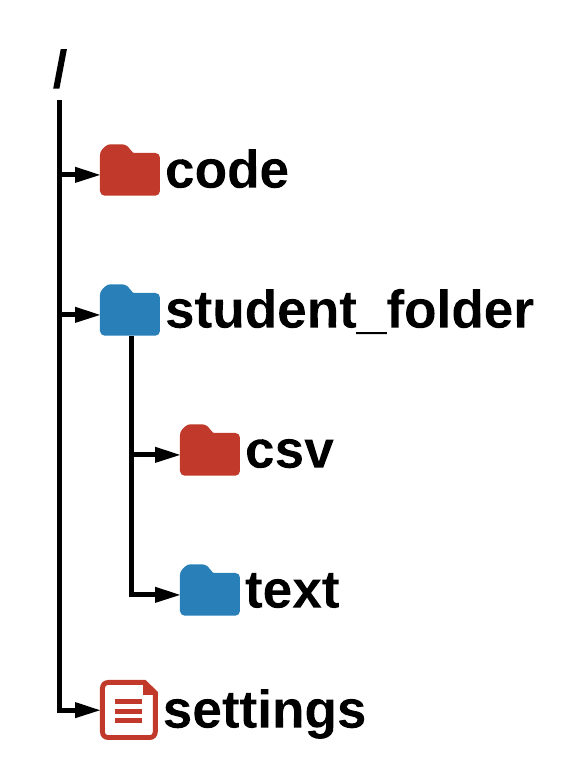
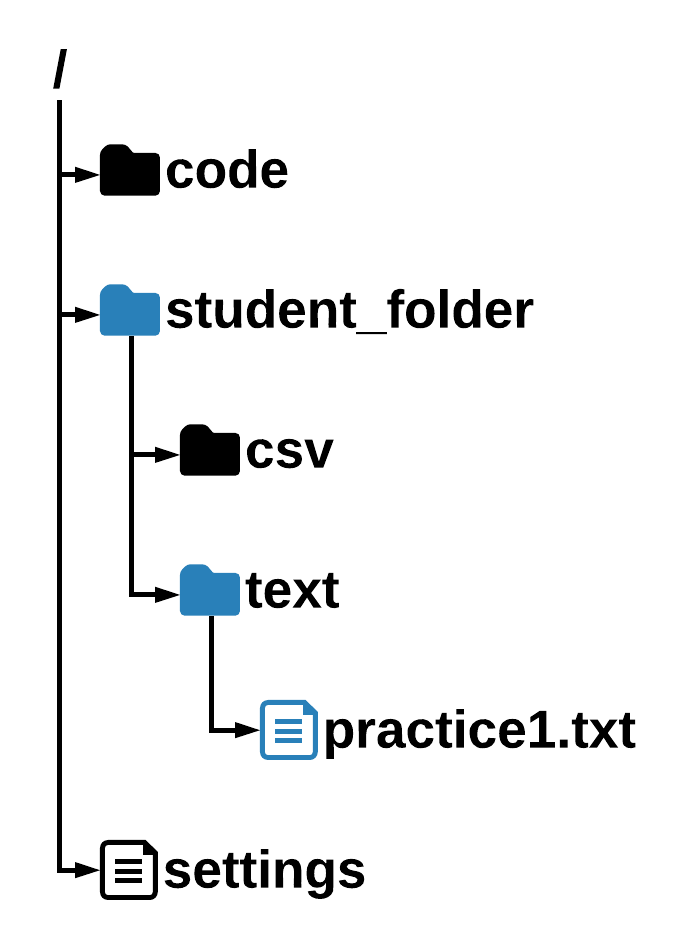
add navigating the file system to the first lesson on files

Changed region(s): [[0.0621, 0.0615, 0.931, 0.9846]]

diff --git a/.guides/content/Navigating-the-File-System-8fe7.md b/.guides/content/Navigating-the-File-System-8fe7.md
@@ -1,12 +1,18 @@
 ## Locating Student Files
 
-In this unit, you will see a directory tree on the left. Inside `student_folder` are two more folders, `csv` and `text`. You will need to know how to access these folders and subfolders with Python code. The location of a file is called its path. You will be working with text files first. So the path for all of these activities is the `text` folder, which inside another folder called `student_folder`. Inside `text` is a file called `practice1.txt`. This is the file you want to access.
+This unit is all about working with files on a computer. The firs step is to open the desired file. That means navigating the file system to find the file in question. The open command requires the location (path) of the file and the filename. The file is called `practice1.txt`. It is located in the `text` folder, which is inside the folder called `student_folder`.  **This makes the path `student_folder/text/`.**
 
 ![File Path](.guides/images/file-path.png)
 
-The path is `students_folder/text`. You will need to import the `os` module to use a path. This allows Python to interact with the operating system. Also, declare a variable `path` and assign it the string value of the path. Python requires a variable that represents the opened text file. Declare the variable `output_file`. Assign it the value of `practice1.txt`. Python needs the name and path of the file to open. This is where the `os` module comes in; `os.path.join(path, "practice1.txt)` is the command that joins `student_folder/text` and `practice1.txt` together. Now that you have the path and file name, you can open the file with the `open` command. The `open` command has three different modes: read, write, and append. Open the file in write mode.
+Importing the `os` Python module allows Python to interact with the operating system. `os` can also join the file path and filename together, allowing you to open the file. 
 
 ![Open File](.guides/images/open-file.png)
+
+There are three different modes when opening a file: read, write, and append. 
+
+<details><summary>**Modes**</summary>The three different modes will be covered of the course of this unit. Use `"w"` to indicate the write mode, `"a"` to indicate the append mode, and `"r"` to indicate the read mode.</details>
+
+Use the write mode. You most close files after you have finished working with them.
 
 ```python
 import os
@@ -14,7 +20,17 @@ import os
 path = "student_folder/text"
 
 output_file = open(os.path.join(path, "practice1.txt"), "w")
-```
+output_file.close()
+``` 
 
 {try it}(python3 code/files/writing.py 1)
-[Open File](open_preview student_folder/text/practice1.txt)
+
+<details><summary>**Where is the output?**</summary>You should see a green check mark after running your program. This means the code ran without any errors. But what about the output? The code above only opens and then closes a file.
+
+|||challenge
+## What happens if you:
+* Open `student_folder` in the sidebar on the left. Open the `text` folder and right-click on `practice1.txt`. Select "Delete..." and run the program again.
+
+|||
+
+{Check It!|assessment}(multiple-choice-4246621000)

diff --git a/.guides/content/Multiline-Strings-2e14.md b/.guides/content/Multiline-Strings-2e14.md
@@ -5,7 +5,11 @@
 Imagine that you want to write the words `Hello` and `there` on separate lines of a file called `practice2.txt`. If the `print` statement writes each string on its own line, the `writelines` should too.
 
 ```python
-output_file = open("practice2.txt", "w")
+import os
+
+path = "student_folder/text"
+
+output_file = open(os.path.join(path, "practice2.txt"), "w")
 output_file.writelines("Hello")
 output_file.writelines("there")
 output_file.close()
@@ -14,7 +18,7 @@ output_file.close()
 <details><summary>**Closing a File**</summary>Closing the file is an important step in working with files. If you forget to close a file, some unpredictable actions may take place. For example, if you open a file with newly written text before closing the file, that text may not be in the file. Be sure that you close all of the files that you open.</details>
 
 {try it}(python3 code/files/multiline-strings-write.py 1)
-[Open practice1.txt](open_preview practice2.txt)
+[Open practice2.txt](open_preview practice2.txt)
 
 If you want to have text appear on a new line, then you need to use the newline character (`\n`).
 
@@ -33,21 +37,25 @@ output_file.writelines("Hello\nthere")
 |||
 
 {try it}(python3 code/files/multiline-strings-write.py 2)
-[Open practice1.txt](open_preview practice2.txt)
+[Open practice2.txt](open_preview practice2.txt)
 
 ## A List of Strings
 
 It is possible to use a list of strings with the `writelines()` method. However, these strings will be written one after another with no space between. If you want spaces, be sure to add them. If you want text to appear on a newline, use `\n`.
 
 ```python
+import os
+
+path = "student_folder/text"
+
 lines_to_write = ["First sentence.", "Second sentence.", "Third sentence."]
-output_file = open("practice2.txt", "w")
+output_file = open(os.path.join(path, "practice2.txt"), "w")
 output_file.writelines(lines_to_write)
 output_file.close()
 ```
 
 {try it}(python3 code/files/multiline-strings-write.py 3)
-[Open practice1.txt](open_preview practice2.txt)
+[Open practice2.txt](open_preview practice2.txt)
 
 |||challenge
 ## What happens if you:
@@ -57,6 +65,6 @@ output_file.close()
 |||
 
 {try it}(python3 code/files/multiline-strings-write.py 4)
-[Open practice1.txt](open_preview practice2.txt)
+[Open practice2.txt](open_preview practice2.txt)
 
 {Check It!|assessment}(parsons-puzzle-1430141663)

diff --git a/.guides/content/Writing-to-a-File-8960.md b/.guides/content/Writing-to-a-File-8960.md
@@ -1,11 +1,5 @@
 ----------
 
-
-
-<details><summary>**Raw Text**</summary>When writing to text files, Python outputs raw text. Raw text is the text that appears in a text editor. There is no special formatting or extra information attached to this text. Text in MS Word is not raw text. Raw text files have the extension `.txt`.</details>
-
-Run the code and look in the directory tree. What do you see? When Python tries to open a file that does not exist, it creates the file.
-
 ## Writing to a File
 
 Once the file is opened, the `writelines()` method is used to write text to the file. Any string of text passed to `writelines()` will appear in the file. Once you are done writing to the file, close the file.
@@ -21,9 +15,9 @@ output_file.close()
 ```
 
 {try it}(python3 code/files/writing.py 2)
-[Open File](open_preview student_folder/text/practice1.txt)
+[Open practice1.txt](open_preview student_folder/text/practice1.txt)
 
-Run the code and click on `practice1.txt`. The text `Hello there` should be in the file.
+<details><summary>**Raw Text**</summary>When writing to text files, Python outputs raw text. Raw text is the text that appears in a text editor. There is no special formatting or extra information attached to this text. Text in MS Word is not raw text. Raw text files have the extension `.txt`.</details>
 
 |||challenge
 ## What happens if you:
@@ -34,6 +28,6 @@ Run the code and click on `practice1.txt`. The text `Hello there` should be in t
 |||
 
 {try it}(python3 code/files/writing.py 3)
-[Open File](open_preview student_folder/text/practice1.txt)
+[Open practice1.txt](open_preview student_folder/text/practice1.txt)
 
 {Check It!|assessment}(multiple-choice-1199134570)
